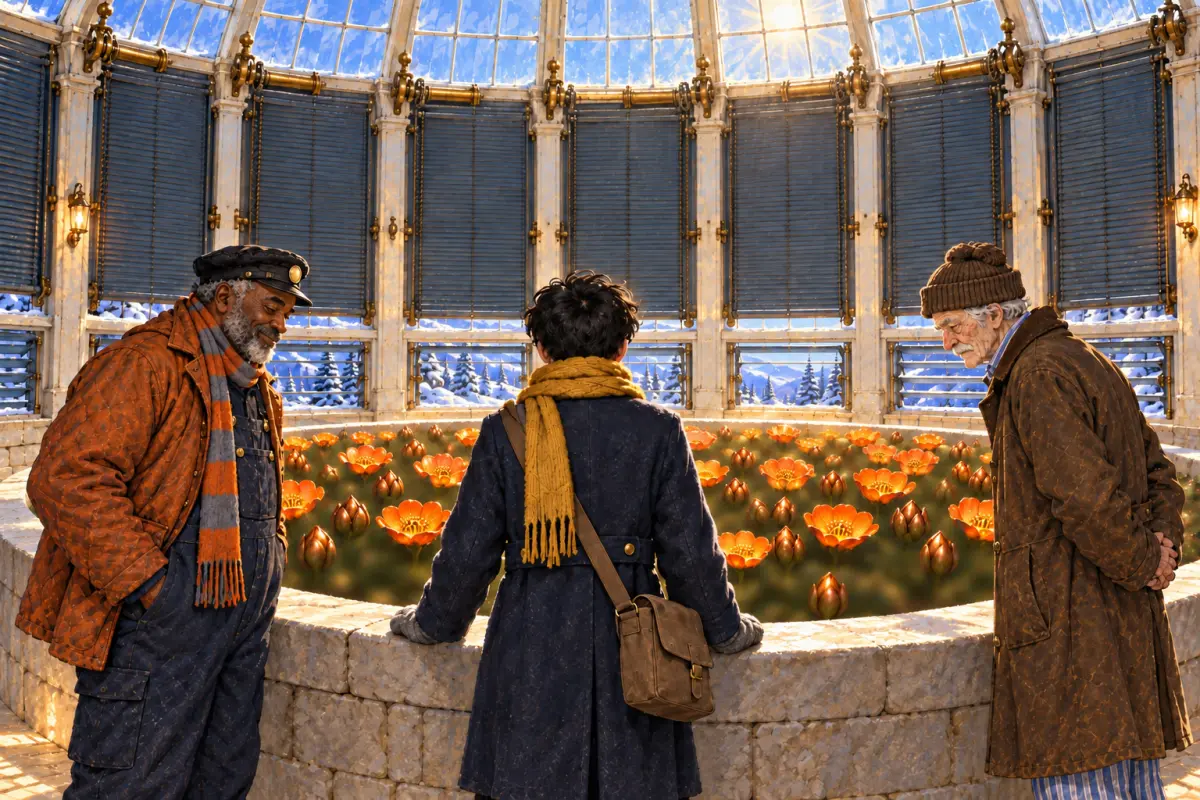
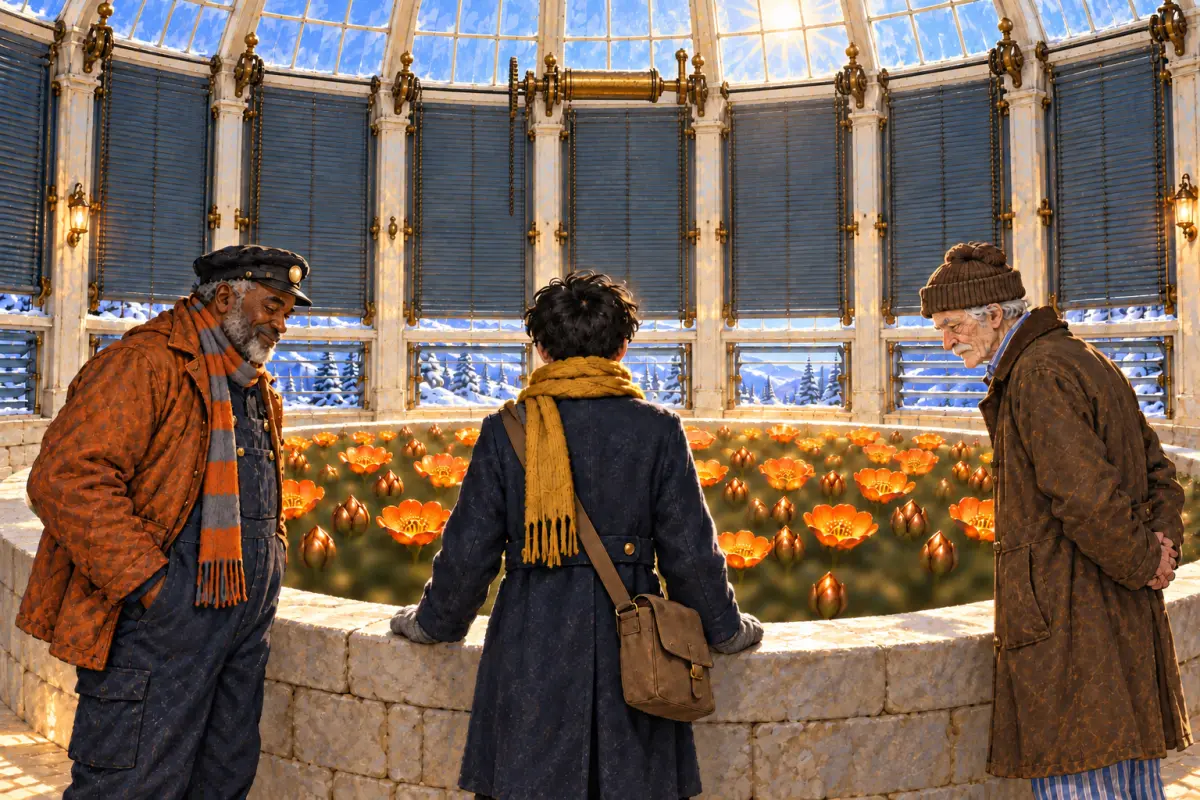
Correct E07 to a single Hallam shutter cylinder

diff --git a/docs/glasshouse-express/art-scene-finale-astra.md b/docs/glasshouse-express/art-scene-finale-astra.md
@@ -1,6 +1,6 @@
 # Glasshouse Express — finale art production
 
-Status: all fourteen assigned scenes delivered; owner independently approved F01–F06. E03–E10 await owner review. Exclusive assignment: F01 F02 F03 F04 F05 F06 E03 E04 E05 E06 E07 E08 E09 E10.
+Status: all fourteen assigned scenes delivered; owner independently approved F01–F06. Owner approved E03,E04,E05,E06,E08,E09,E10; corrected E07 awaits owner review. Exclusive assignment: F01 F02 F03 F04 F05 F06 E03 E04 E05 E06 E07 E08 E09 E10.
 
 Runtime: injected Codex / gpt-6-astra / medium. Live orchestrator_capabilities confirms inherited provider `codex`, model `gpt-6-astra`, and matching catalog `reasoningEffort.currentValue=medium`. Durable record verification belongs to owner. No subagents or alternate image providers used.
 
@@ -822,3 +822,47 @@ All 14 assigned final WebPs exist, decode at 1200×800, and have 14 distinct SHA
 `git diff --check` passed. Changed tracked scope is the fourteen assigned images and this unique report only. No story, bible, stamp, reference, shared code or other batch changes. Owner has independently approved and merged F01–F06, including corrected F05; E03–E10 are ready for independent owner review. No self-stamp.
 
 Global `npm run -s test:art` was run using the owner's installed tsx through PATH; result: 8 passed, 4 failed. Coverage tests also fail for unrelated existing stories last-skyway, midnight-signal and lantern-archive. Glasshouse Express coverage fails because 30 other-batch scene files (A01–A06, B01–B10, C01–C05, D01–D07, E01–E02) are absent in this isolated checkout. None of the missing files belongs to this assignment. Raw output is retained in ignored `art-src/finale-art-test.txt`. The owner must run combined global validation after merging all batches.
+
+## E07 owner-requested mechanism correction — 2026-10-15
+
+This supersedes the prior E07 selected PNG/WebP above; prior entries remain as generation history. Owner approved every other assigned scene. Follow-up injected runtime: Codex / gpt-6-astra / medium; live orchestrator_capabilities inherited codex/gpt-6-astra and catalog reasoningEffort.currentValue=medium reverified. Durable records remain owner responsibility.
+
+One built-in image_gen edit call; all three mapped packs plus target (four paths total). All pack/source hashes and complete decoded source rectangles reverified against tracked packing audit.
+
[3 lines of base64/hex data omitted]
+
[1 lines of base64/hex data omitted]
+
[1 lines of base64/hex data omitted]
+
[1 lines of base64/hex data omitted]
+
[1 lines of base64/hex data omitted]
+
+QA: full-size generated PNG and final WebP inspected. Exactly one central brass cylinder with pin/collar and attached gear/axle linkage; other bodies replaced by thin rods/structure. Half cups/half closed buds, fully unreadable blurred foliage, three identities, hands, hidden player face, high sunlight, closed shutters and open low louvres preserved. Scope only E07 WebP and this report; ignored original/rejection/provenance retained. Dimension/hash checks and git diff --check pass. No repeat global test: previous missing-file failures are unrelated to this correction. Owner review pending; no self-stamp.
+
+Exact complete correction prompt:
+
+```text
+The attached sheets lock identity, shape, colour, clothing and scale only. Draw ONLY the scene below, not a lineup. Do not add other subjects or equipment from a reference. Match this scene’s possession, costume variant, time, location and object state. Shared-path illustrations must be valid on every arrival route; never interpret an optional companion as required.
+Painterly 1980s fantasy-adventure illustration, gouache and ink line, luminous frost blues and warm glasshouse amber, expressive invented faces, cinematic light, 3:2 landscape. Family-friendly, gently comic. Only the listed characters appear; Hesper appears only at the Terminus, Cassia only inside her studio, Sallow only at the Ember Works, Fenn only at the Conservatory; radio voices and telephone voices are never drawn. No real people's likenesses, no famous trains or film props, no logos, no legible text or captions (signs and plates are blank or unreadable). Every scene states location, weather and time: the night is clear with hard frost and stars, wind only on the Mere viaduct, tunnel interiors enclosed and weatherless, dawn scenes clear and golden. Use 'alone (X is not here)' when specified. Keep every character's clothing word-for-word identical to the cast description; scene prompts never substitute outfits. The player's face is always hidden. Action is machinery, weather and plants, never injury; falling glass lands where nobody stands. Optional companions, props and the empty dark carriages are absent unless explicitly listed for that scene.
+
+THE PLAYER: an unnamed, gender-neutral teenager, always seen from behind or over the shoulder with the face hidden, in a navy wool railway greatcoat with brass buttons, a mustard knitted scarf, grey woollen gloves, dark corduroy trousers and black lace-up boots, with a brown canvas keeper's satchel worn across the body on a strap from the LEFT shoulder to the RIGHT hip, closed by a single brass flap buckle. Short dark hair under no hat. The brass thaw-lamp is carried only when listed.
+
+DOV PELLINGER: an original big man in his fifties, dark brown skin, close-cropped grey beard, a black railway cap with a small round brass badge, a quilted rust-orange oilskin jacket over navy bib overalls, a scarf of alternating orange and grey stripes with an orange fringe, heavy black boots. Carries a square X-braced brass hand lantern when outdoors. Calm, slow-moving, kind.
+
+TOBIAS FENN: an original tall thin man in his seventies, pale lined skin, white moustache, a brown knitted cap, a long brown waxed coat buttoned over blue-and-white striped pyjamas, unlaced brown boots. Carries a hurricane lantern. Grumbling but devoted.
+
+SUNWORT TRAYS: shallow wooden trays of broad dark-green rosette plants, each rosette with a cluster of tight copper-coloured buds at its heart, on slatted wooden staging. Closed buds throughout the journey; open flowers are broad warm orange cups, shown only in the endings that describe them. When planted, the rosettes sit in dark soil in the round stone bed.
+
+THE CONSERVATORY: a great glass dome on the summit of Cold Hill, white-painted iron ribs, a lantern cupola at the crown, a stone base, and on its eastern face a curved row of twelve tall vertical iron shutters with a heavy chain and a large brass wax cylinder mounted high where their gear meets the ribs. Inside, a round raised stone planting bed (the Great Bed) with a small iron stove door in its base, and narrow hand-opened side louvres low in the walls. Outside, iron gates in a stone wall and a frozen fountain.
+
+Mid-morning inside the Conservatory on Cold Hill: high sun now clearing the top of the still-closed eastern shutters and falling on the round Great Bed, where about half the sunwort buds have opened into warm orange cup flowers, the rest still closed, the leaves beneath them soft and out of focus so no leaf shape is readable. The player, Dov and Fenn stand at the rim in bright light, the player seen from behind. Only these three people. Open side louvres along the walls.
+
+Image 1: upper = player-hesper; lower = dov
+Image 2: upper = fenn; lower = sunwort
+Image 3: upper = conservatory-exterior; lower = conservatory-interior
+Image 4: edit target E07. Use case: precise-object-edit. Output1536x1024. Correct ONLY the repeated Hallam wax cylinder bodies along the top of the shutter arc. There must be exactly ONE horizontal brass wax cylinder, matching the conservatory-interior reference's lower-left mechanism: cylindrical brass body, end collars, attached vertical pin/collar, axle and gear linkage. Keep that single mechanism high above the central shutters, visibly attached to the structure. Replace ALL other repeated thick brass cylinder bodies with ordinary thin dark iron linkage rods and white structural framing. Gear wheels and thin shared axle can remain; no other wax cylinders anywhere. Preserve all remaining target details: three exact people and wardrobes, hands/anatomy, hidden player face and satchel, approximately half open orange cup flowers and half closed copper buds, foliage entirely defocused with NO readable leaf shapes, high midmorning sunlight above fully CLOSED shutters, OPEN low louvres, camera framing and stone bed. Do not copy reference sheet layout or add objects/people.
+```
